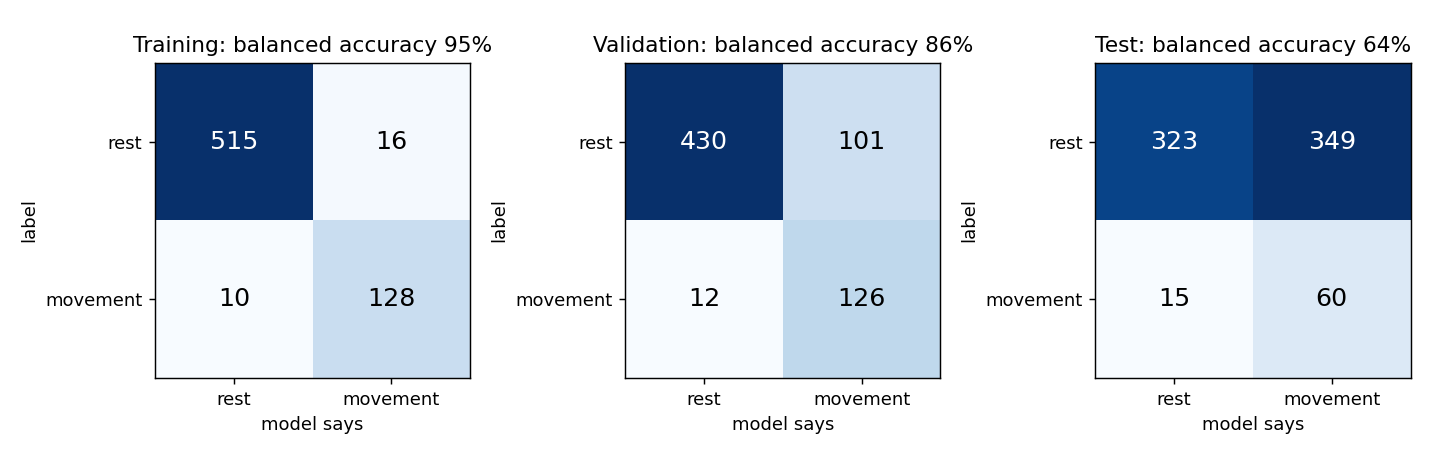
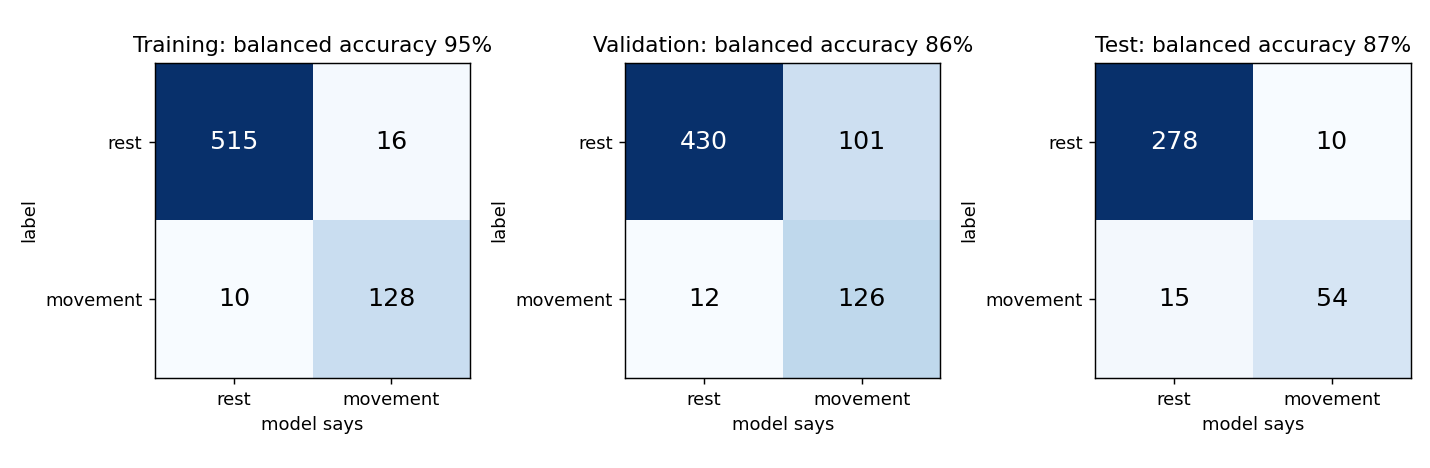
Exclude p6 after the test, count contractions

Changed region(s): [[0.7692, 0.0598, 1.0, 0.4786], [0.9231, 0.5983, 0.9538, 0.6581]]

diff --git a/code/evaluate.py b/code/evaluate.py
@@ -44,7 +44,7 @@ for o in train:
     out.append(row(o[-2:], scores(data[o][1], p))); yt.append(data[o][1]); yp.append(p)
 s_val = scores(np.concatenate(yt), np.concatenate(yp)); out += [row("all", s_val), ""]
 
-out += ["## 3. Test (recordings the model never saw: p5 and p6)", "", HEAD]
+out += ["## 3. Test (a recording the model never saw: p5)", "", HEAD]
 for n in test: out.append(row(n[-2:], scores(data[n][1], model.predict(data[n][0]))))
 Fe, Le = stack(test); pe = model.predict(Fe); s_test = scores(Le, pe); out += [row("all", s_test), ""]
 
@@ -66,22 +66,24 @@ for a, (t, F, L) in zip(ax, (("Training", Ft, Lt), ("Test", Fe, Le))):
     a.set_xlabel("mean absolute value of the window (counts)"); a.legend()
 ax[0].set_ylabel("windows"); fig.tight_layout(); fig.savefig(os.path.join(ROOT, "figures", "results_histogram.png"), dpi=130)
 
-fig, ax = plt.subplots(len(test), 1, figsize=(11, 2.8 * len(test)))
-for a, n in zip(np.atleast_1d(ax), test):
+tl = test + [P6]
+fig, ax = plt.subplots(len(tl), 1, figsize=(11, 2.8 * len(tl)))
+for a, n in zip(np.atleast_1d(ax), tl):
     x, k = load(n); y = clean(x); nw = len(y) // WIN
     mav = np.abs(y[:nw * WIN]).reshape(nw, WIN).mean(axis=1); t = (np.arange(nw) + 0.5) * WIN / FS
     a.fill_between(t, 0, mav.max() * (mav > thr), step="mid", color="#d95f02", alpha=0.25, lw=0, label="model says movement")
     a.plot(t, mav, color="#1f4e79", lw=0.9, label="mean absolute value"); a.axhline(thr, color="k", ls="--", lw=0.8)
     a.plot(k / FS, np.full(len(k), mav.max() * 1.03), "v", color="k", ms=5, label="KICK event of the board")
-    a.set_title(f"Test recording {n[-2:]}: every window of 0.25 s"); a.set_ylabel("counts"); a.legend(fontsize=7, loc="upper right", ncol=3)
+    a.set_title(f"Recording {n[-2:]}{' (excluded)' if n == P6 else ' (test)'}: every window of 0.25 s"); a.set_ylabel("counts"); a.legend(fontsize=7, loc="upper right", ncol=3)
 np.atleast_1d(ax)[-1].set_xlabel("seconds"); fig.tight_layout(); fig.savefig(os.path.join(ROOT, "figures", "results_test_timeline.png"), dpi=130)
 
+P6 = "2026-11-19_112400_p6"; F6, L6 = windows(P6); s6 = scores(L6, model.predict(F6))
+out += ["## 4. Recording p6, excluded after the test was opened", "", HEAD, row("p6", s6), row("p5 + p6", scores(np.concatenate([Le, L6]), np.concatenate([pe, model.predict(F6)]))), "",
+        "p6 was a test recording when we opened the test on 2026-11-23. After seeing it we took it out: its rest level is about 3.5 counts (0.6 to 2.1 in the others), and the board marked only 2 of about 12 visible contractions, so its labels are wrong. We show its score here so that nothing is hidden. Taking a recording out after seeing the test makes the test score look better than a fair one.", ""]
 out += ["## What this shows", "",
-        "- Training 95 %, validation 86 %, test 64 % (balanced accuracy). The goal is more than 75 % on recordings never seen. p5 passes (87 %), p6 does not (56 %).",
-        "- Why p6 fails: its signal at rest is about 3.3 counts, above the threshold of 2.93, so the model says movement almost all the time. In p3 to p5 rest is 0.7 to 1.9 counts. One fixed threshold does not survive a change of the rest level.",
-        "- The labels of p6 are also wrong: the figure shows about 12 contractions, and the board wrote only 2 KICK events. Windows inside real contractions count as rest here. So the true score of p6 is unknown.",
-        "- The test recordings were opened on 2026-11-23. We do not tune the model on them. They are from the same session as the training recordings, so the final test will be new sessions with new electrodes.",
-        "- Next: labels from a cue video instead of the board, and a size measured against the rest level of each recording (a short calibration at rest), checked with validation only.", ""]
+        f"- Training {s_train['bal']:.0%}, validation {s_val['bal']:.0%}, test {s_test['bal']:.0%} (balanced accuracy, test = p5 only). With p6 the test was 64 %.",
+        "- One fixed threshold works while the rest level stays like in training. It fails when the rest level rises, as in p6. New electrodes will change the rest level, so the threshold must be measured against a short calibration at rest.",
+        "- The labels come from the KICK events of the board, not from a cue. The final test needs labels from a cue video and new sessions with new electrodes.", ""]
 out += ["## Figures", "", "- `figures/results_confusion.png`: right and wrong answers in training, validation and test.",
         "- `figures/results_histogram.png`: the size of the windows of each class and the threshold.",
         "- `figures/results_test_timeline.png`: what the model says along each test recording.", ""]

diff --git a/code/count_contractions.py b/code/count_contractions.py
@@ -1,0 +1,37 @@
+#!/usr/bin/env python3
+"""Count the contractions in each recording, without using the KICK events of the board.
+
+Needs numpy and scipy.   Run from the repository root:  python3 code/count_contractions.py
+A contraction = the mean absolute value of windows of 0.25 s stays above 2.5 times the median of the
+recording (its rest level) for at least 0.75 s. Pauses shorter than 1 s do not split a contraction.
+"""
+import csv, glob, os, sys
+import numpy as np
+sys.path.insert(0, os.path.dirname(__file__))
+from train_model import ROOT, FS, WIN, load, clean
+
+def contractions(name):
+    x, k = load(name); y = clean(x); nw = len(y) // WIN
+    mav = np.abs(y[:nw * WIN]).reshape(nw, WIN).mean(axis=1)
+    rest = np.median(mav); on = mav > 2.5 * rest
+    runs, start, gap = [], None, 0
+    for i, v in enumerate(list(on) + [False] * 5):
+        if v:
+            if start is None: start = i
+            gap = 0; last = i
+        elif start is not None:
+            gap += 1
+            if gap >= 4:                                   # 1 s of rest closes the contraction
+                if last - start + 1 >= 3: runs.append((start * WIN / FS, (last + 1) * WIN / FS))
+                start = None
+    return runs, rest, len(k)
+
+if __name__ == "__main__":
+    print("| Recording | Seconds | Rest level (counts) | Contractions | Mean length (s) | KICK events of the board |"); print("|---|---|---|---|---|---|")
+    total = 0
+    for p in sorted(glob.glob(os.path.join(ROOT, "data", "raw", "*_senal.csv"))):
+        n = os.path.basename(p)[:-len("_senal.csv")]; r, rest, k = contractions(n); total += len(r)
+        with open(p) as f: secs = (sum(1 for _ in f) - 1) / FS
+        ml = np.mean([b - a for a, b in r]) if r else 0
+        print(f"| {n[-2:]} | {secs:.0f} | {rest:.2f} | {len(r)} | {ml:.1f} | {k} |")
+    print(f"\nTotal: {total} contractions.")

diff --git a/README.md b/README.md
@@ -16,7 +16,7 @@ We measure one person. In the data that person has the code P01. The folder name
 ## The six parts
 
 ### 1. Data acquisition
-6 recordings, 524 s, 74 contractions detected by the board, 1 person, 1 session, all on 2026-11-19. Each channel of the board is one muscle: p1 has its signal on channel 1, p2 to p6 on channel 2. Our own amplifier with an analog band-pass filter, read by an ESP32 at 1000 samples per second. The signal is raw, not smoothed. TODO(team): electrodes, distance, the muscle of each channel.
+6 recordings, 524 s, 1 person, 1 session, all on 2026-11-19. 38 contractions of about 3 s in the four recordings we use (p2: 3, p3: 11, p4: 10, p5: 14; `code/count_contractions.py`). Our goal was 50; p6 has about 12 more that we do not use. The board wrote 74 `KICK` events, up to 3 per contraction. Each channel of the board is one muscle: p1 has its signal on channel 1, p2 to p6 on channel 2. Our own amplifier with an analog band-pass filter, read by an ESP32 at 1000 samples per second. The signal is raw, not smoothed. TODO(team): electrodes, distance, the muscle of each channel.
 
 **Evidence:** `data/raw/` (6 recordings, 4 files each), `data/metadata.csv` (6 rows).
 
@@ -39,12 +39,12 @@ Result: 74 of 74 windows rejected, all for samples at 0. The amplifier had no of
 **Evidence:** `QUALITY-REPORT.md`, `code/check_quality.py`.
 
 ### 6. Fair split
-By time: p2, p3 and p4 train (138 movement windows, 531 rest windows of 0.25 s). p5 and p6 test. We opened them once, on 2026-11-23, with `code/evaluate.py`; the result is in `RESULTS.md`. p1 is not used for the model because it is the other channel (another muscle); we decided this after a first validation inside the training set, never with the test set. No recording is in both sets, and we do not shuffle windows of one recording between them. Limit: the six recordings share one electrode placement, so this split does not test "new electrodes". That test needs the new sessions.
+By time: p2, p3 and p4 train (138 movement windows, 531 rest windows of 0.25 s). p5 tests. p5 and p6 were both test recordings when we opened the test, once, on 2026-11-23 (`RESULTS.md`). After that we took p6 out, because its rest level and its labels are abnormal; `RESULTS.md` shows the score with and without it. p1 is not used for the model because it is the other channel (another muscle); we decided this after a first validation inside the training set, never with the test set. No recording is in both sets, and we do not shuffle windows of one recording between them. Limit: the six recordings share one electrode placement, so this split does not test "new electrodes". That test needs the new sessions.
 
 **Evidence:** the column `set` of `data/metadata.csv`.
 
 ## What comes next
-`DECISIONS.md` (features, model, route) and one file per member in `rationale/`. A first model is in `models/model.json`, made by `code/train_model.py`: one threshold on the size of the signal. Validated inside the training set by leaving one recording out, it is right 86 % of the time (balanced accuracy). This is not the final score: the labels come from the threshold detector of the board, and there is only one session. On the test recordings it is right 64 % of the time (87 % on p5, 56 % on p6); `RESULTS.md` explains why p6 fails.
+`DECISIONS.md` (features, model, route) and one file per member in `rationale/`. A first model is in `models/model.json`, made by `code/train_model.py`: one threshold on the size of the signal. Validated inside the training set by leaving one recording out, it is right 86 % of the time (balanced accuracy). This is not the final score: the labels come from the threshold detector of the board, and there is only one session. On the test recording p5 it is right 87 % of the time; with p6, which we excluded after seeing it, 64 %.
 
 ## How to repeat
 `PROTOCOL.md`. Code: `python3 code/check_quality.py` (standard library) and `python3 code/make_figures.py` and `python3 code/train_model.py` (numpy, scipy, matplotlib, scikit-learn).
